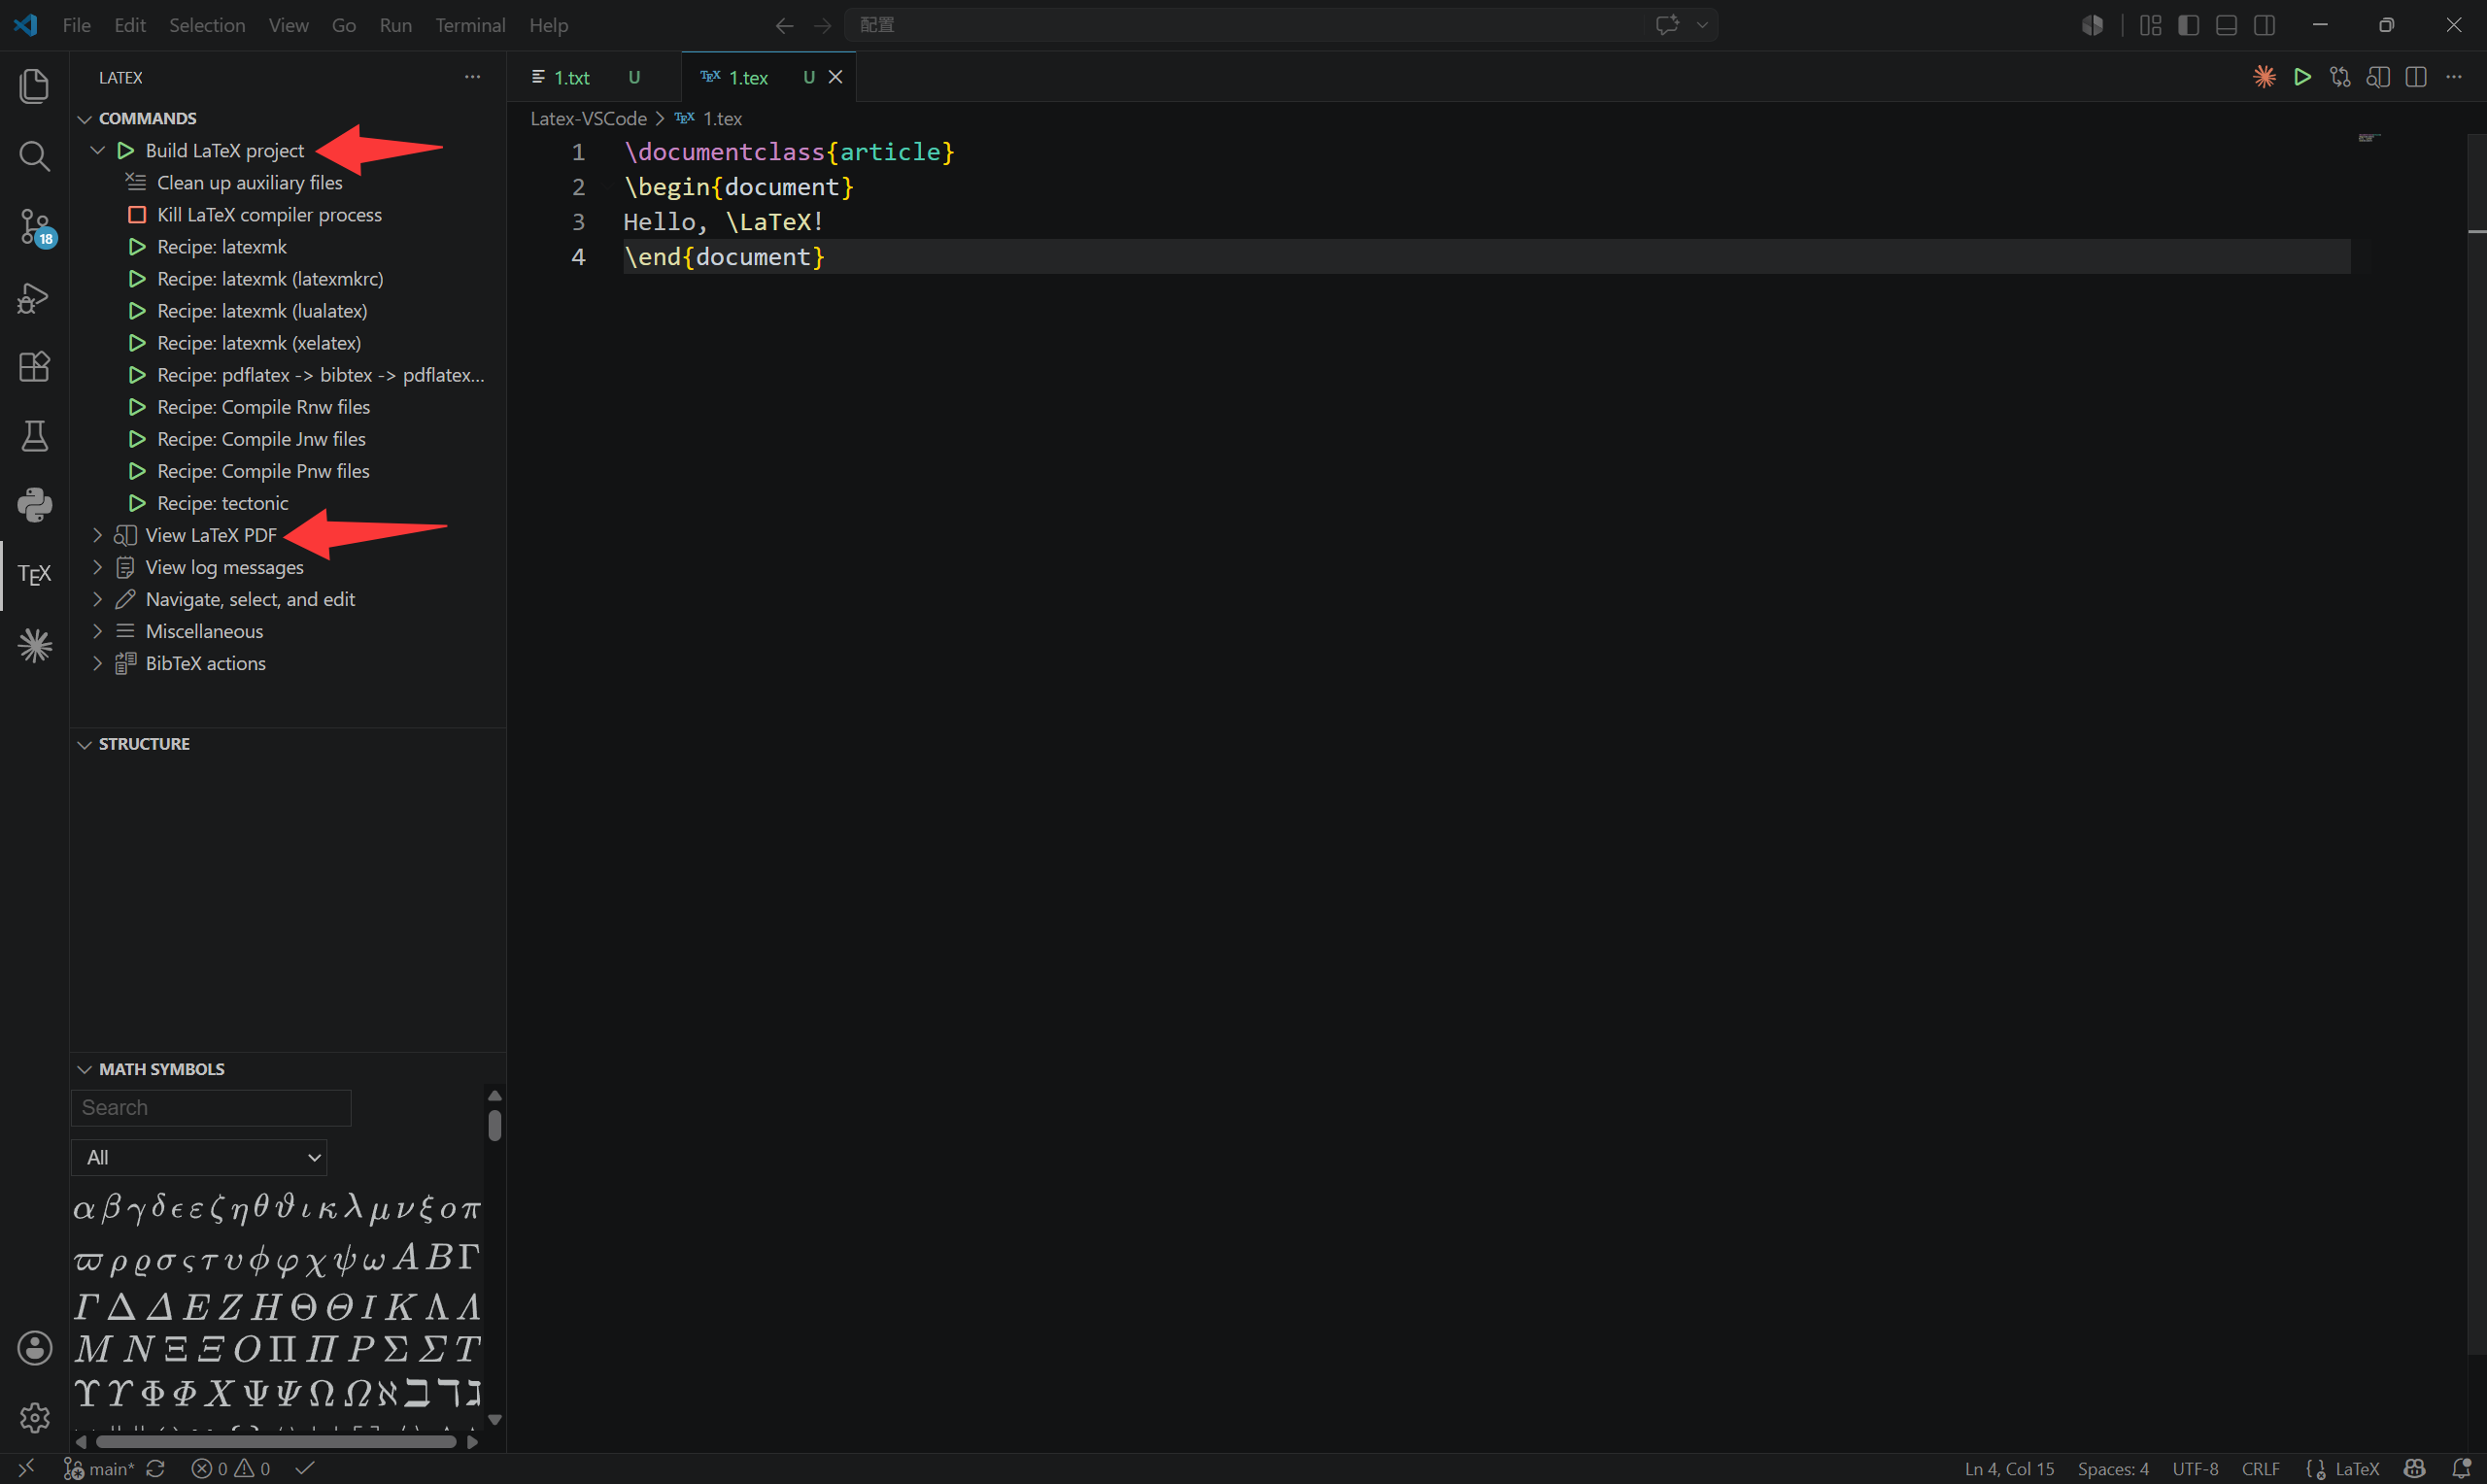
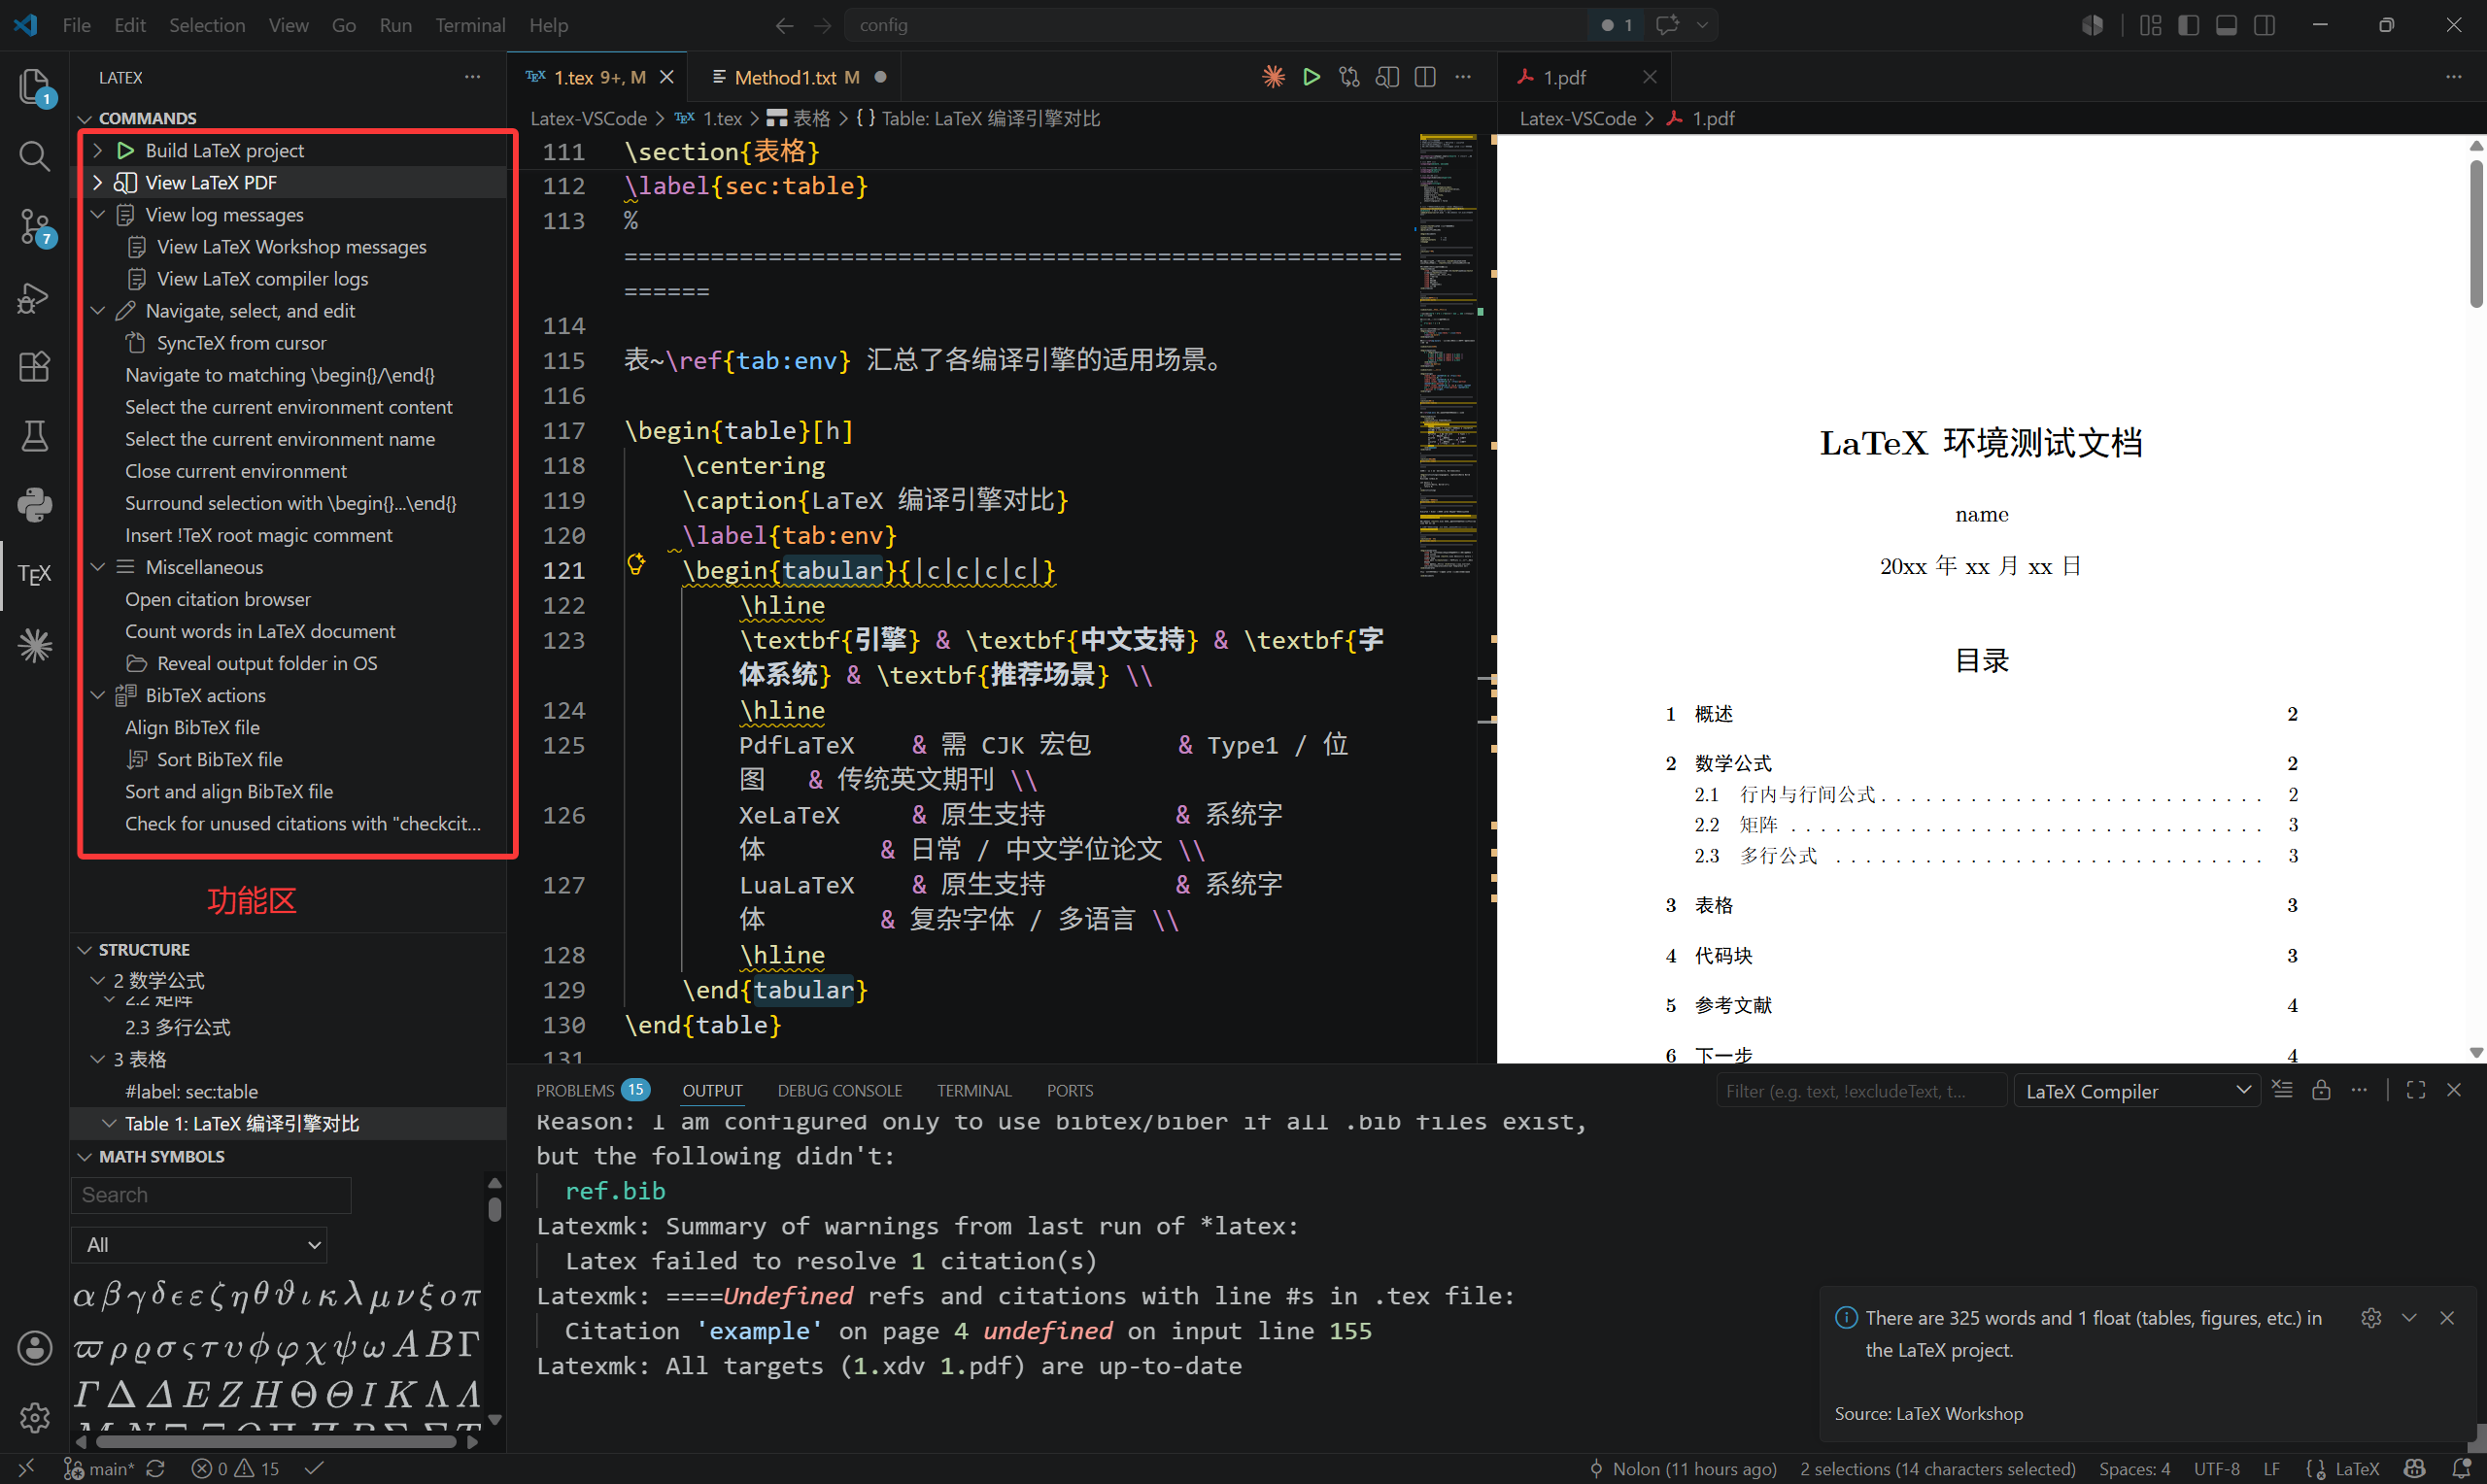
tex function explain

diff --git a/Latex-VSCode/1.tex b/Latex-VSCode/1.tex
@@ -37,8 +37,8 @@
 % ============================================================
 
 \title{\textbf{LaTeX 环境测试文档}}
-\author{你的名字}
-\date{\today}
+\author{name}
+\date{20xx年xx月xx日}
 
 \begin{document}
 

diff --git a/Latex-VSCode/Method1.md b/Latex-VSCode/Method1.md
@@ -1,0 +1,107 @@
+## 下载texlive
+
+打开 [https://www.tug.org/texlive/](https://www.tug.org/texlive/)
+
+![1.png](1.png)
+
+点击 on DVD->downloading the ISO image and burning your own DVD->download from a nearby CTAN mirror->texlive20xx.iso(版本会随年份更新)，开始下载
+
+![2.png](2.png)
+
+![3.png](3.png)
+
+![4.png](4.png)
+
+或通过清华镜像源下载：[https://mirrors.tuna.tsinghua.edu.cn/](https://mirrors.tuna.tsinghua.edu.cn/)
+
+点击 获取下载链接->应用软件->Tex排版系统->texlive20xx，开始下载
+
+![5.png](5.png)
+
+![6.png](6.png)
+
+![7.png](7.png)
+
+## 安装
+
+下载后解压(路径不能有中文)，右击install-tl-windows.bat(批处理文件)以管理员身份运行，若报错，右击texlive20xx.iso(光盘映像文件)装载，装载后在此电脑打开，右击install-tl-windows.bat(批处理文件)以管理员身份运行，会出现两个窗口，其中黑色窗口在安装完成前不要关闭！
+
+![11.png](11.png)
+
+修改下载路径，可勾选给所有用户安装，点击advance进行其他设置，建议取消勾选安装前端(使用VSCode)，点击定制，只勾选自己需要的语言，设置完成后安装，安装时间一般较长(约40分钟)需耐心等待
+
+![9.png](9.png)
+
+![10.png](10.png)
+
+出现Welcome to Tex Live且关闭按键亮起即安装完成
+
+![12.png](12.png)
+
+可在Windows终端输入 `tex -v` 来检查，输出版本号则成功
+
+## 配置VS Code
+
+在vscode下载LaTeX Workshop扩展，随便打开一个 `.tex` 文件(本文件夹给了一个 `1.tex`)，左侧出现TEX扩展图标，点击图标，按F1，点击"首选项：打开工作区设置(JSON)/Preferences: Open Workspace Settings(JSON)"，会打开一个 `settings.json`，将本文件夹中 `114514.json` 文件的内容并复制黏贴(覆盖即可)到 `settings.json` 并保存，重启VSCode
+
+## 使用方法
+
+打开tex文件，在Build LaTeX project中选择编译方式并点击，再在View LaTeX PDF中选择查看方式，可在看到PDF预览
+
+![8.png](8.png)
+
+### 1. Navigate, select, and edit（导航、选择与编辑）
+
+**SyncTeX from cursor（正向同步）：**
+光标停在 .tex 某处代码时，点一下这个，PDF 预览界面会自动滚屏并高亮对应的段落。配合双击 PDF 反向跳转，两边互通。
+
+**Navigate to matching `\begin{}`/`\end{}`（跳转到匹配的头尾）：**
+当在写一个很长的表格或者复杂的公式环境时，点它一下，光标就能在对应的开头和结尾 `\begin` 和 `\end{}` 之间闪现。
+
+**Select the current environment content（选择当前环境的内容）：**
+比如你想把整个大块内容（`\begin{}` 到 `\end{}` 之间）全部选中，点它一下，它会自动精准选中里面的所有内容，不需要用鼠标去拖拽选中。
+
+**Select the current environment name（选择当前环境的名称）：**
+选中你当前光标所在环境的名称本身（也就是 `\begin{...}` 和 `\end{...}` 括号里面的内容），可同时更改头尾。
+
+**Close current environment（关闭当前环境）：**
+自动补全结尾的 `\end{...}`。
+
+**Surround selection with `\begin{}...\end{}`（用环境包裹选中内容）：**
+事先写好了一段字，想把它变成一个公式或者列表，选中这段字，点它，它会自动在头尾帮你加上 `\begin{...}` 和 `\end{...}`。
+
+**Insert !TeX root magic comment（插入 !TeX 根文件魔法注释）：**
+用来告诉 VS Code 哪一个是主文件（Mian File），解决多文件排版。写大报告或大论文时，把引言、实验、结论分别写在 `intro.tex`、`experiment.tex`、`conclusion.tex` 里，然后用一个 `main.tex` 去汇总它们。当单独打开 `experiment.tex` 修改代码并按下保存时，VS Code 会编译这个单独的小文件，然后因为找不到头尾而报错。解决办法：在小文件的最顶部点一下这个功能，它会自动插入一行注释（类似 `% !TEX root = ./main.tex`），无论你正在修改哪一个小模块，只要按下保存，VS Code 都会自动编译总的 `main.tex`。
+
+### 2. Miscellaneous（杂项实用工具）
+
+**Open citation browser（打开参考文献浏览器）：**
+点开它，你能一眼看到你在 .bib 文件里存的所有参考文献。写论文要引用时，可以直接在这里搜索并一键插入正文。
+
+**Count words in LaTeX document（统计字数）：**
+写论文或者报告有字数限制时（比如很多期刊限制在 3000 字内），点它一下，它会自动剔除掉排版代码、公式、大段的宏包命令，只统计中文字或英文单词。
+
+**Reveal output folder in OS（在系统里打开输出文件夹）：**
+一键打开保存了 PDF 的文件夹。
+
+### 3. BibTeX actions（参考文献整理）
+
+**Align BibTeX file（对齐文献文件）：**
+自动把所有参考文献的作者、年份、缩进对得整整齐齐。
+
+**Sort BibTeX file（文献排序）：**
+自动把文献按照字母顺序或者年份重新排版，让数据库井井有条。
+
+**Sort and align BibTeX file（排序并对齐 BibTeX 文件）：**
+集成以上两个功能
+
+**Check for unused citations...（检查未使用的引用）：**
+写长篇报告时，可能往文献库里塞了 50 篇论文，但最后正文里只引用了 30 篇。点一下它，它会帮你揪出剩下的 20 篇未引用文献，方便保持论文的精简。
+
+## 可能的问题
+
+若出错，可能是因为没添加环境变量，复制 `texlive/202xx/bin/(win32？)` 文件夹的路径，设置->关于->高级系统设置->高级->环境变量->系统变量->Path->新建，然后将bin/的路径粘贴
+
+## 更新方法
+
+例如已安装texlive2024，要更新至texlive2026，下载 `texlive2026.iso` 并安装，会在 `texlive\` 下形成 `2026\` 和原有的 `2024\`，`\texlive\2024\install-tl-windows.bat` 将 `2024\` 删除，将 `\202xx\bin\` 路径粘贴到环境变量即可

diff --git a/C C++ VSCode/Method1.md b/C C++ VSCode/Method1.md
@@ -1,0 +1,55 @@
+## 下载编译器
+
+打开 [https://www.msys2.org/](https://www.msys2.org/)
+
+下载 `msys2-x86_64-20260611.exe`，安装
+
+![1.png](1.png)
+
+完成后会出现msys2窗口，手动输入
+
+```
+pacman -S --needed base-devel mingw-w64-ucrt-x86_64-toolchain
+```
+
+并执行，安装完成后，先不关闭窗口
+
+![2.png](2.png)
+
+## 添加环境变量
+
+复制MinGW文件下 `\msys64\ucrt64\bin` 的路径
+
+设置->关于->高级系统设置->高级->环境变量->系统变量->Path->新建，然后将bin/的路径粘贴
+
+![3.png](3.png)
+
+![4.png](4.png)
+
+![5.png](5.png)
+
+在Windows终端输入 `gcc --version`，显示版本号则成功，可将msys2窗口关闭
+
+![6.png](6.png)
+
+## 安装扩展
+
+打开vscode扩展商店，下载 C/C++ Extension Pack(内含4个扩展) 和 C/C++ Compile Run 和 Better C++ Syntax(让代码高亮更好看，可不装) 三个扩展
+
+打开C/C++ Compile Run扩展，点设置->扩展设置，找到"C-cpp-compile-run:Run-in-external-terminal"，勾选则在额外的terminal窗口运行，不勾选则在vscode底部terminal运行
+
+运行本文件夹的 `114514.c`(路径不能有中文)，选择 C++(GDB/LLDB)
+
+![7.png](7.png)
+
+![8.png](8.png)
+
+输出：
+
+```
+Forward: [100] -> [200] -> NULL
+Backward: [200] -> [100] -> NULL
+Hello, World!
+```
+
+则成功